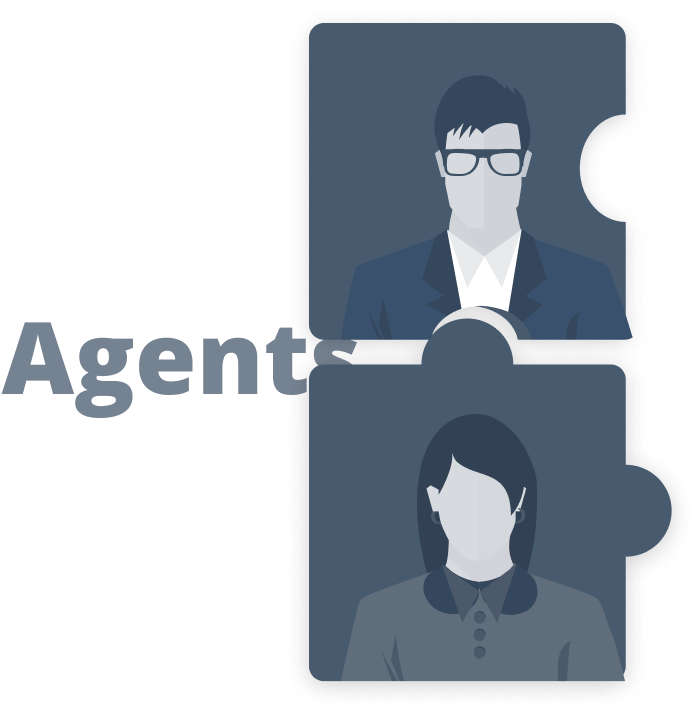
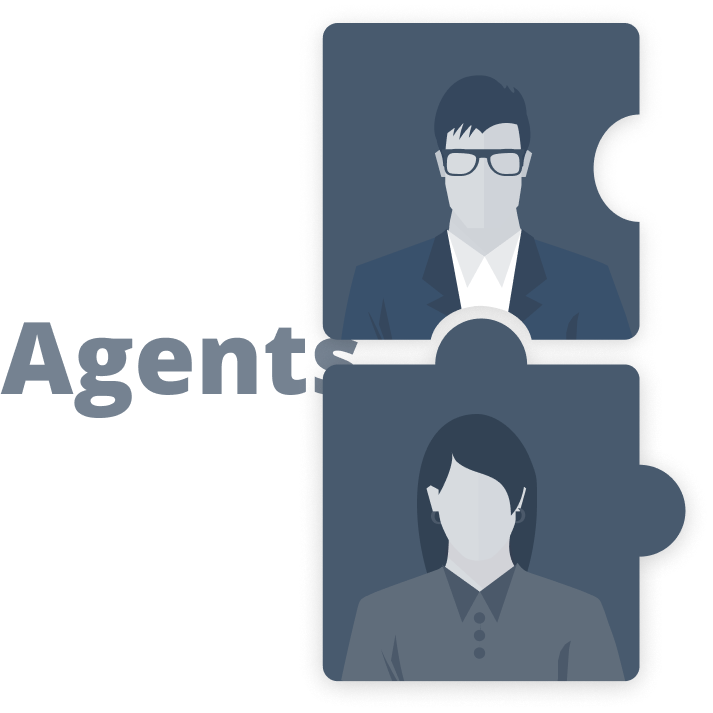
updates

diff --git a/src/modules/content/index.js b/src/modules/content/index.js
@@ -127,7 +127,7 @@ class Homepage extends Component {
       <div id="container">
         <div className="subContainer">
           <div className="containerLeft" id="containerLeft">
-            <div id="textLeft" className="textLeft hidden" style={{float: 'left', marginTop: '50%'}}>
+            <div id="textLeft" className="textLeft hidden" style={{float: 'left', marginTop: '100%'}}>
               <h1>AGENT</h1>
             </div>
             <div onClick={() => this.handleSelect('agent')}>
@@ -153,7 +153,7 @@ class Homepage extends Component {
                     onMouseLeave={() => this.handleHover('containerLeft', 'leave',  'agentLeft', 'helpaLeft', 'helpaLeft')} 
                     className="imageRight display" id="helpaRight"></img>
               </div>
-              <div id="textRight" className="textRight hidden" style={{float: 'right', marginTop: '50%'}}>
+              <div id="textRight" className="textRight hidden" style={{float: 'right', marginTop: '100%'}}>
                 <h1>HELPA</h1>
               </div>
           </div>

diff --git a/src/modules/content/Style.css b/src/modules/content/Style.css
@@ -52,14 +52,14 @@
 
 .imageLeft{
   position: absolute;
-  left: 13%;
+  left: 12.5%;
   padding: 4%;
 }
 
 .imageRight{
   position: absolute;
   padding: 4%;
-  left: 43%;
+  left: 42.5%;
 }
 
 .helpaLeft{
@@ -69,24 +69,6 @@
 }
 
 
-
-/* .textRight{
-  justify-content: center;
-  align-items: center;
-  display: flex;
-  background-color: #f290bb;
-  width: 5%;
-  height: 100vh;
-}
-
-.textLeft{
-  justify-content: center;
-  align-items: center;
-  display: flex;
-  background-color: #59687A;
-  width: 5%;
-  height: 100vh;
-} */
 
 .textLeft h1, .textRight h1{
   writing-mode: vertical-rl;
